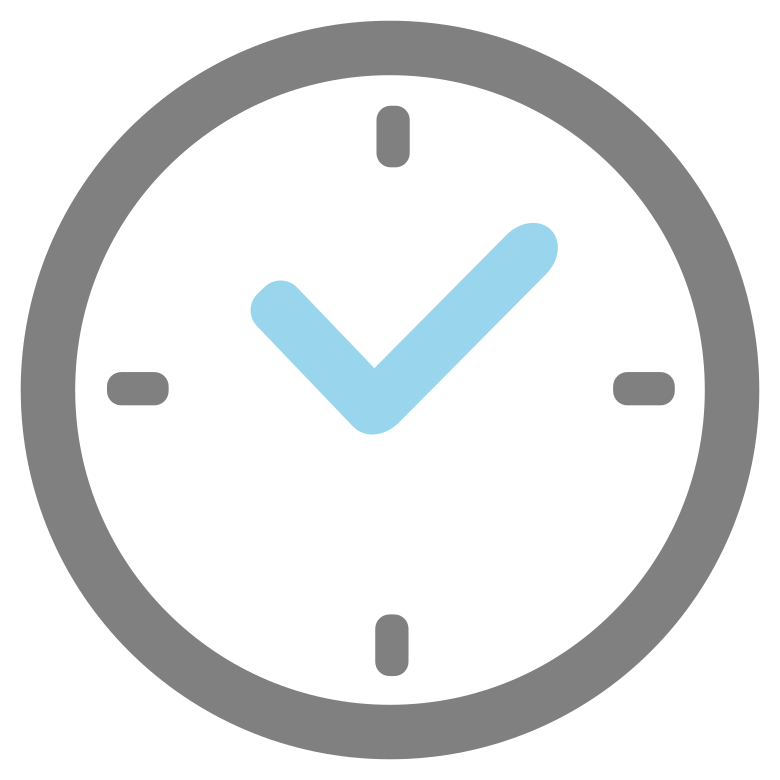
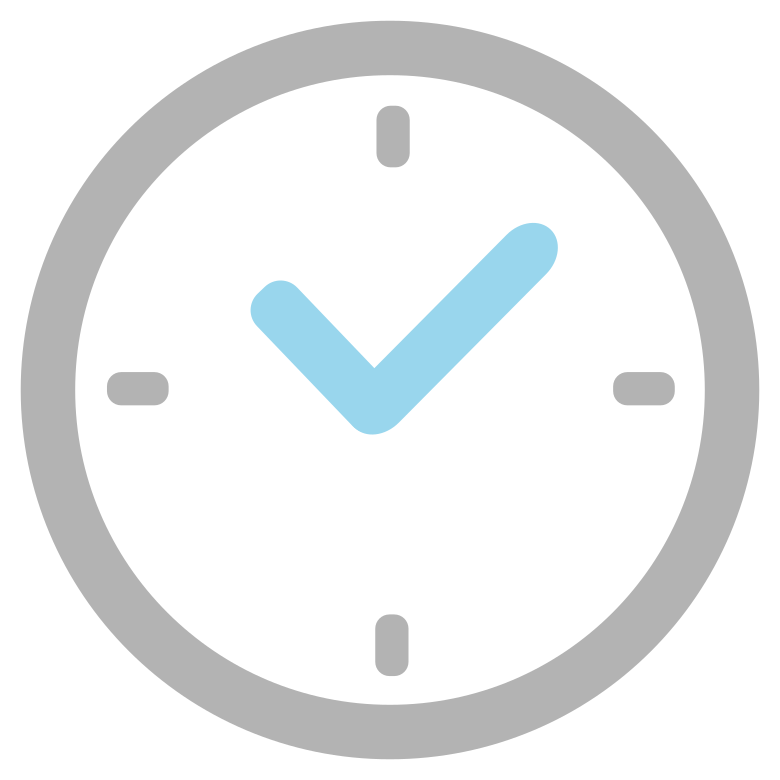
0.5.9

Changed region(s): [[0.0, 0.0, 0.9846, 0.9846], [0.7692, 0.4615, 0.8615, 0.5231]]

diff --git a/app/clients/homeClients/page.js b/app/clients/homeClients/page.js
@@ -8,7 +8,8 @@ import Link from 'next/link'
 import imageCalendar from '@/public/assets/images/calendargif.gif'
 import imageHoraires from '@/public/assets/images/horaires.png'
 import imageHours from '@/public/assets/images/hours.png'
-import imageServices from '@/public/assets/images/service.png'
+// import imageServices from '@/public/assets/images/service.png'
+import imageServices from '@/public/assets/images/services.png'
 import imageMap from '@/public/assets/images/map.png'
 import imagePhone from '@/public/assets/images/phone.png'
 import imageChat from '@/public/assets/images/chat.png' 
@@ -140,7 +141,7 @@ const HomeClients = () => {
                                 <div className='text-center' style={{fontSize:12}}>PRENDRE RDV</div>
                             </div> 
                         </div>
-                    </Link>
+                    </Link> 
 
                     <div className="flex justify-around mt-4">
                         {/* <Link href={"/clients/openingHours"}> */}

diff --git a/models/ModelColor.js b/models/ModelColor.js
@@ -10,7 +10,7 @@ export const MODEL_COLOR = {
 
 /*
 
-grey = 4d4d4dff 
+grey = 808080ff  // b3b3b3ff
 
 
 */
